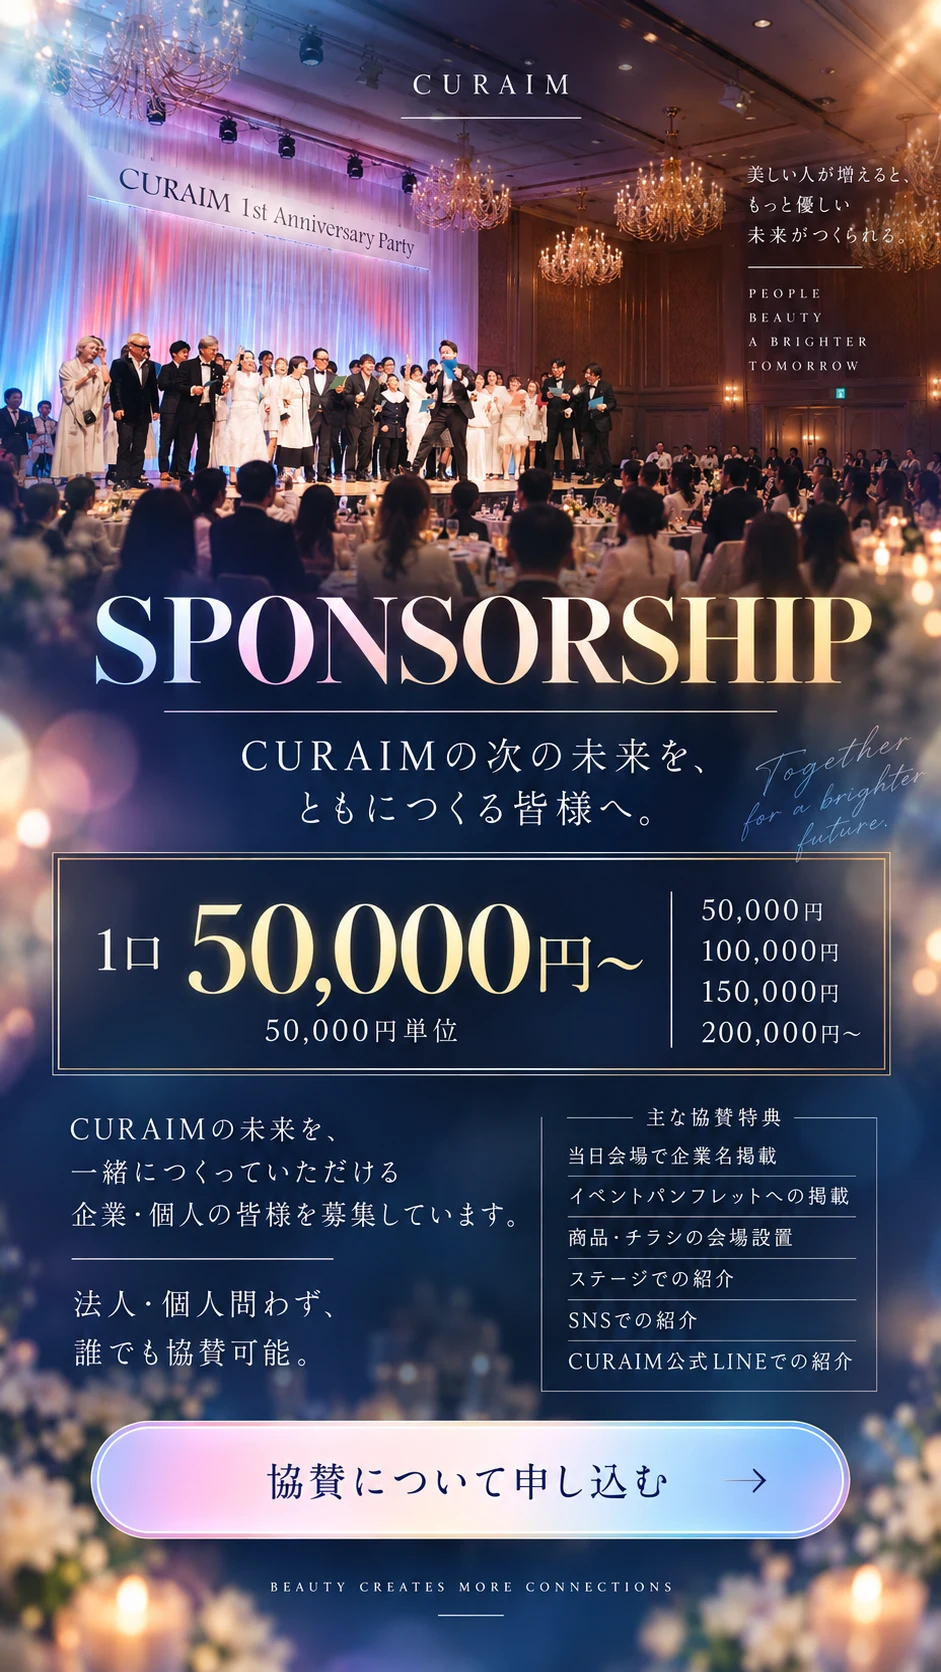
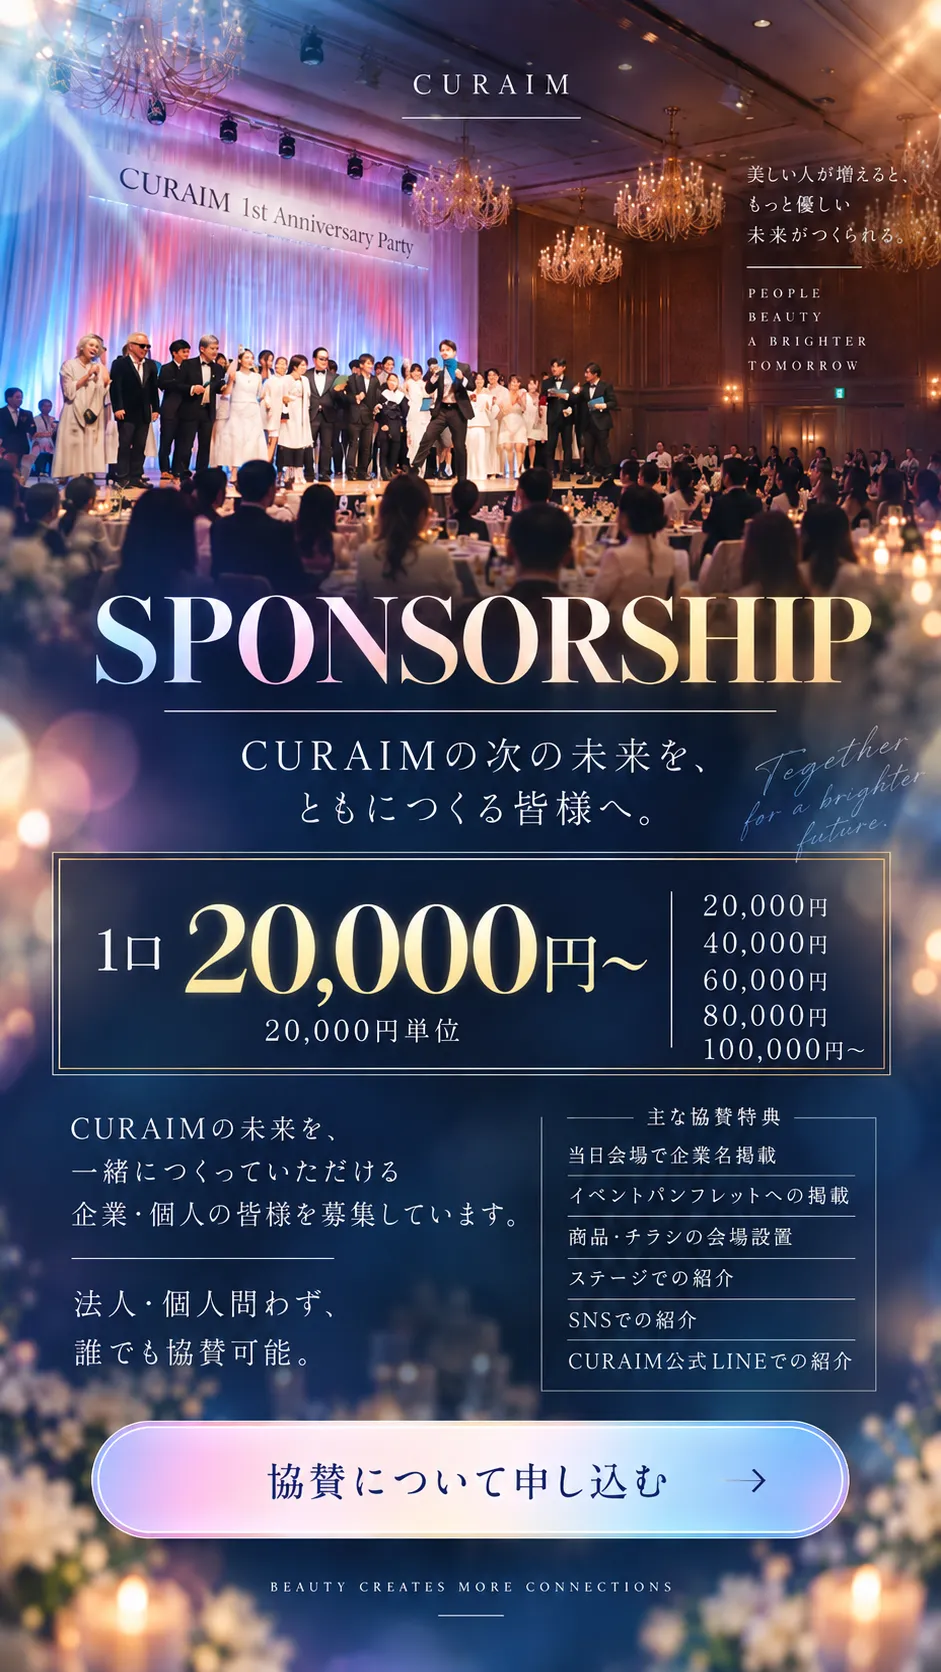
Replace section 1 and 12 images (sponsorship 20,000 yen units)

diff --git a/index.html b/index.html
@@ -203,7 +203,7 @@
 
   <section class="sec sec-night" id="sponsorship" data-fx="rise" data-en="SPONSORSHIP" data-ja="協賛募集">
     <div class="frame">
-      <picture><source srcset="assets/img/section12.webp" type="image/webp"><img src="assets/img/section12.jpg" width="941" height="1672" loading="lazy" decoding="async" alt="SPONSORSHIP。CURAIMの次の未来を、ともにつくる皆様へ。1口50,000円〜（50,000円単位：50,000円／100,000円／150,000円／200,000円〜）。法人・個人問わず、誰でも協賛可能。主な協賛特典：当日会場で企業名掲載、イベントパンフレットへの掲載、商品・チラシの会場設置、ステージでの紹介、SNSでの紹介、CURAIM公式LINEでの紹介。"></picture>
+      <picture><source srcset="assets/img/section12.webp" type="image/webp"><img src="assets/img/section12.jpg" width="941" height="1672" loading="lazy" decoding="async" alt="SPONSORSHIP。CURAIMの次の未来を、ともにつくる皆様へ。1口20,000円〜（20,000円単位：20,000円／40,000円／60,000円／80,000円／100,000円〜）。法人・個人問わず、誰でも協賛可能。主な協賛特典：当日会場で企業名掲載、イベントパンフレットへの掲載、商品・チラシの会場設置、ステージでの紹介、SNSでの紹介、CURAIM公式LINEでの紹介。"></picture>
       <canvas class="fx-canvas" data-particles="bokeh" data-hue="blue"></canvas>
       <span class="sweep sweep-metal" style="--t:51%;--l:6%;--w:88%;--h:10%;--d:1.2s"></span>
       <a class="hotspot" data-cta="sponsor" href="#" style="--l:9.8%;--t:85%;--w:80.4%;--h:7.6%" aria-label="協賛について申し込む"></a>
